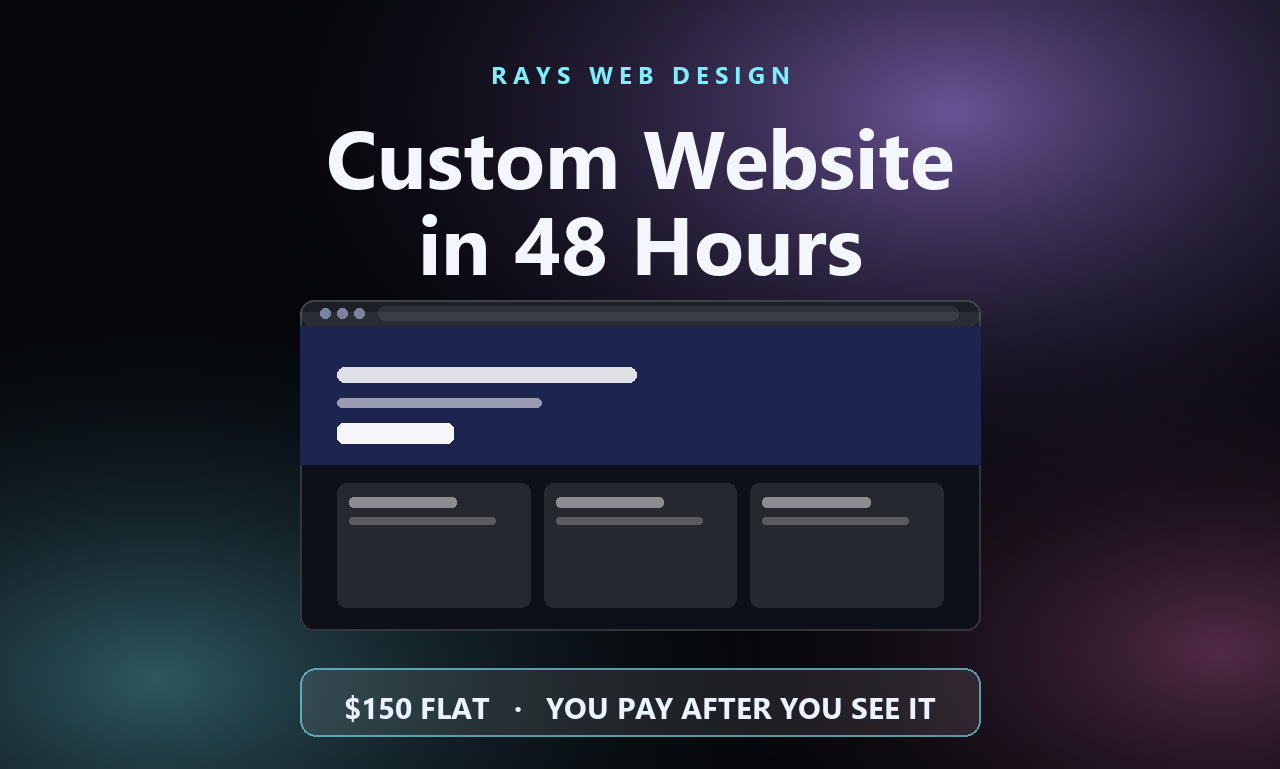
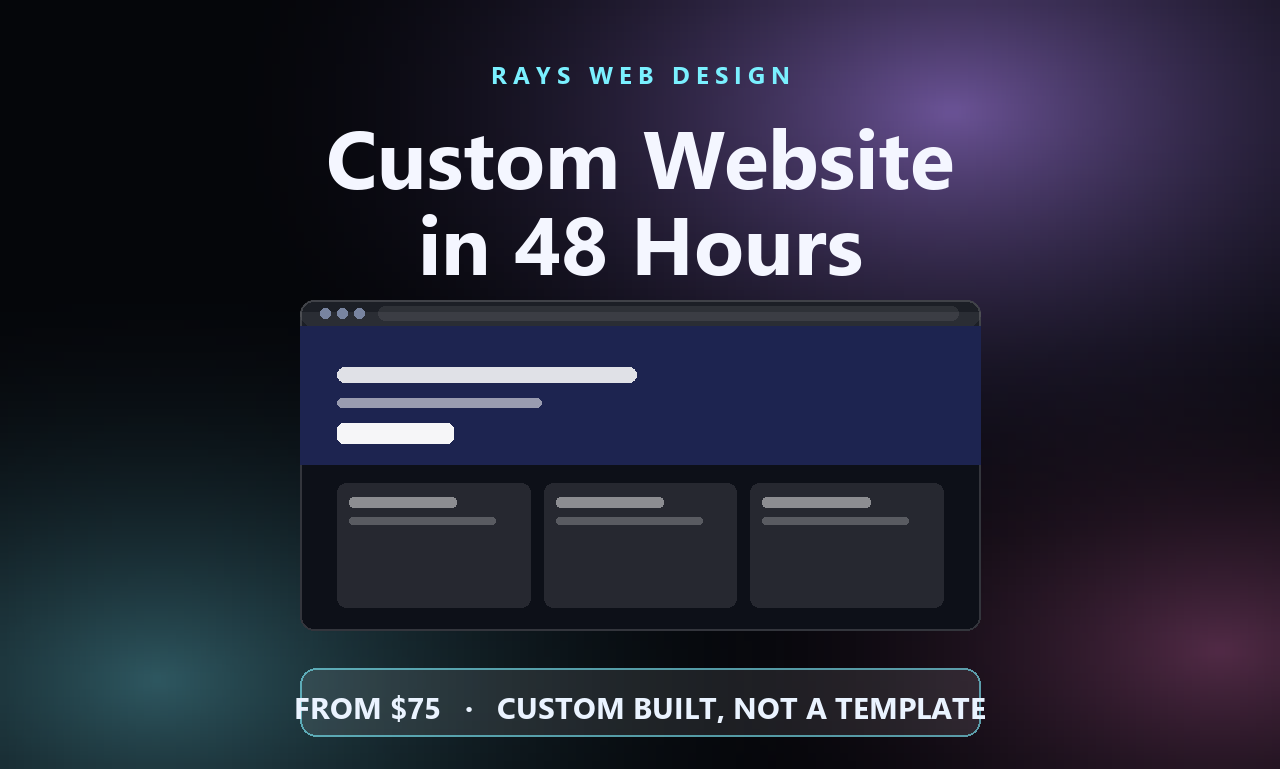
Gallery copy: From $75, and drop the pay-after claim (untrue on Fiverr)

Changed region(s): [[0.2188, 0.9051, 0.7812, 0.9363]]

diff --git a/tools/make-gig-images.py b/tools/make-gig-images.py
@@ -133,7 +133,7 @@ def card_offer(path):
     browser(d, 300, 300, 680, 330, "#1d2450")
     d.rounded_rectangle([300, 668, 980, 736], radius=16, fill=(255, 255, 255, 24),
                         outline=hx("#7af0ff") + (150,), width=2)
-    centre(d, 686, "$150 FLAT   ·   YOU PAY AFTER YOU SEE IT", font(BOLD, 30), hx("#eaf3ff"))
+    centre(d, 686, "FROM $75   ·   CUSTOM BUILT, NOT A TEMPLATE", font(BOLD, 30), hx("#eaf3ff"))
     img.save(os.path.join(ROOT, path), "PNG", optimize=True)
     return path
 
@@ -167,7 +167,7 @@ def card_3d(path):
                                    (.90, .16, .42, "#c8d0dd", .26)])
     d = ImageDraw.Draw(img, "RGBA")
     f = font(BOLD, 24)
-    track(d, (72, 58), "SOMETHING MOST $150 SITES CAN'T DO", f, hx("#7af0ff"), 5)
+    track(d, (72, 58), "SOMETHING MOST CHEAP SITES CAN'T DO", f, hx("#7af0ff"), 5)
     # left column must clear the browser window at x=700
     hf = font(BOLD, 62)
     for i, line in enumerate(["Real-time 3D,", "right in the browser."]):
